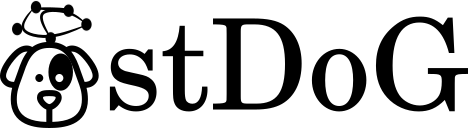
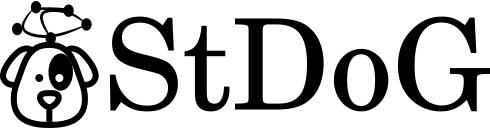
Change the name stDoG to StDoG

Changed region(s): [[0.0, 0.0, 0.9872, 1.0], [0.9573, 0.375, 0.9872, 0.4062], [0.8974, 0.5312, 0.9274, 0.5625]]

diff --git a/docs/buildback/html/index.html b/docs/buildback/html/index.html
@@ -8,7 +8,7 @@
   
   <meta name="viewport" content="width=device-width, initial-scale=1.0">
   
-  <title>Welcome to stdog’s documentation! &mdash; stDoG 1.0.3 documentation</title>
+  <title>Welcome to stdog’s documentation! &mdash; StDoG 1.0.3 documentation</title>
   
 
   
@@ -47,7 +47,7 @@
           
 
           
-            <a href="#" class="icon icon-home"> stDoG
+            <a href="#" class="icon icon-home"> StDoG
           
 
           
@@ -94,7 +94,7 @@
       <nav class="wy-nav-top" aria-label="top navigation">
         
           <i data-toggle="wy-nav-top" class="fa fa-bars"></i>
-          <a href="#">stDoG</a>
+          <a href="#">StDoG</a>
         
       </nav>
 

diff --git a/docs/buildback/html/modules.html b/docs/buildback/html/modules.html
@@ -8,7 +8,7 @@
   
   <meta name="viewport" content="width=device-width, initial-scale=1.0">
   
-  <title>Spectral &mdash; stDoG 1.0.3 documentation</title>
+  <title>Spectral &mdash; StDoG 1.0.3 documentation</title>
   
 
   
@@ -47,7 +47,7 @@
           
 
           
-            <a href="index.html" class="icon icon-home"> stDoG
+            <a href="index.html" class="icon icon-home"> StDoG
           
 
           
@@ -94,7 +94,7 @@
       <nav class="wy-nav-top" aria-label="top navigation">
         
           <i data-toggle="wy-nav-top" class="fa fa-bars"></i>
-          <a href="index.html">stDoG</a>
+          <a href="index.html">StDoG</a>
         
       </nav>
 

diff --git a/docs/buildback/html/search.html b/docs/buildback/html/search.html
@@ -8,7 +8,7 @@
   
   <meta name="viewport" content="width=device-width, initial-scale=1.0">
   
-  <title>Search &mdash; stDoG 1.0.3 documentation</title>
+  <title>Search &mdash; StDoG 1.0.3 documentation</title>
   
 
   
@@ -46,7 +46,7 @@
           
 
           
-            <a href="index.html" class="icon icon-home"> stDoG
+            <a href="index.html" class="icon icon-home"> StDoG
           
 
           
@@ -93,7 +93,7 @@
       <nav class="wy-nav-top" aria-label="top navigation">
         
           <i data-toggle="wy-nav-top" class="fa fa-bars"></i>
-          <a href="index.html">stDoG</a>
+          <a href="index.html">StDoG</a>
         
       </nav>
 

diff --git a/docs/buildback/html/genindex.html b/docs/buildback/html/genindex.html
@@ -9,7 +9,7 @@
   
   <meta name="viewport" content="width=device-width, initial-scale=1.0">
   
-  <title>Index &mdash; stDoG 1.0.3 documentation</title>
+  <title>Index &mdash; StDoG 1.0.3 documentation</title>
   
 
   
@@ -47,7 +47,7 @@
           
 
           
-            <a href="index.html" class="icon icon-home"> stDoG
+            <a href="index.html" class="icon icon-home"> StDoG
           
 
           
@@ -94,7 +94,7 @@
       <nav class="wy-nav-top" aria-label="top navigation">
         
           <i data-toggle="wy-nav-top" class="fa fa-bars"></i>
-          <a href="index.html">stDoG</a>
+          <a href="index.html">StDoG</a>
         
       </nav>
 

diff --git a/docs/source/conf.py b/docs/source/conf.py
@@ -20,7 +20,7 @@ sys.setrecursionlimit(1500)
 
 # -- Project information -----------------------------------------------------
 
-project = 'stDoG'
+project = 'StDoG'
 copyright = '2019, Bruno Messias; Thomas Peron'
 author = 'Bruno Messias; Thomas Peron'
 
@@ -126,7 +126,7 @@ html_static_path = ['_static']
 # -- Options for HTMLHelp output ---------------------------------------------
 
 # Output file base name for HTML help builder.
-htmlhelp_basename = 'stDoGdoc'
+htmlhelp_basename = 'StDoGdoc'
 
 
 # -- Options for LaTeX output ------------------------------------------------
@@ -153,7 +153,7 @@ latex_elements = {
 # (source start file, target name, title,
 #  author, documentclass [howto, manual, or own class]).
 latex_documents = [
-    (master_doc, 'stDoG.tex', 'stDoG Documentation',
+    (master_doc, 'StDoG.tex', 'StDoG Documentation',
      'Bruno Messias; Thomas Peron', 'manual'),
 ]
 
@@ -163,7 +163,7 @@ latex_documents = [
 # One entry per manual page. List of tuples
 # (source start file, name, description, authors, manual section).
 man_pages = [
-    (master_doc, 'stdog', 'stDoG Documentation',
+    (master_doc, 'stdog', 'StDoG Documentation',
      [author], 1)
 ]
 
@@ -174,8 +174,8 @@ man_pages = [
 # (source start file, target name, title, author,
 #  dir menu entry, description, category)
 texinfo_documents = [
-    (master_doc, 'stDoG', 'stDoG Documentation',
-     author, 'stDoG', 'One line description of project.',
+    (master_doc, 'StDoG', 'StDoG Documentation',
+     author, 'StDoG', 'One line description of project.',
      'Miscellaneous'),
 ]
 

diff --git a/stdog/dynamics/kuramoto/cuheuns.py b/stdog/dynamics/kuramoto/cuheuns.py
@@ -26,7 +26,7 @@ class CUHeuns:
     """Allow efficiently simulating phase oscillators (the Kuramoto model) on
     large heterogeneous networks using the Heun’s method. This class uses a
     pure CUDA implementation of Heun’s method. Therefore, should be faster
-    than TensorFlow implementation also provided by stDoG
+    than TensorFlow implementation also provided by StDoG
 
     Attributes
     ----------

diff --git a/README.md b/README.md
@@ -1,19 +1,15 @@
 # ![](stdog.png) 
 # Structure and Dynamics on Graphs (Beta)
 
-stDoG is a Tensorflow Python module for efficiently simulating phase oscillators (the Kuramoto model) on large heterogeneous networks. It provides an implementation for integrating differential equations using TensorFlow, making simulations suitable to be performed on GPUs.
+The main goal of StDoG is to provide a package which can be used to study
+dynamical and structural properties (like spectra) on/off graphs with a large
+number of vertices. The modules of StDoG are being built by
+combining codes written in *Tensorflow* + *CUDA* and *C++*.
 
 ## 1 - Install
 
 ```
 pip install stdog
-```
-
-In order to install the last version
-
-```
-wget -O stdog https://github.com/stdogpkg/stdog/archive/master.zip && unzip stdog
-cd stdog-master && python setup.py install
 ```
 
 ## 2 - Examples

diff --git a/docs/source/index.rst b/docs/source/index.rst
@@ -1,6 +1,6 @@
 .. meta::
     :description lang=en:
-        stDoG is a package which can be used to study
+        StDoG is a package which can be used to study
         dynamical and structural properties (like spectra) 
         on/off graphs with a large number of vertices.
 
@@ -12,9 +12,9 @@ Strucutre and Dyanmics on Graphs
 .. image:: imgs/stdog.png
     :align: center
 
-The main goal of stDoG is to provide a package which can be used to study
+The main goal of StDoG is to provide a package which can be used to study
 dynamical and structural properties (like spectra) on/off graphs with a large
-number of vertices. The modules of stDoG are being built by
+number of vertices. The modules of StDoG are being built by
 combining codes written in *Tensorflow* + *CUDA* and *C++*.
 
 

diff --git a/docs/source/examples.rst b/docs/source/examples.rst
@@ -10,7 +10,7 @@ Dynamics
 Kuramoto
 --------
 
-stDoG provides two implementations of Heun’s method. The 
+StDoG provides two implementations of Heun’s method. The 
 first uses the TensorFlow. Therefore, it can be used with both 
 CPU’s or GPU’s. The second implementation is a python wrapper to a 
 CUDA code. The second (CUDA) is  faster than TensorFlow implementation. 
